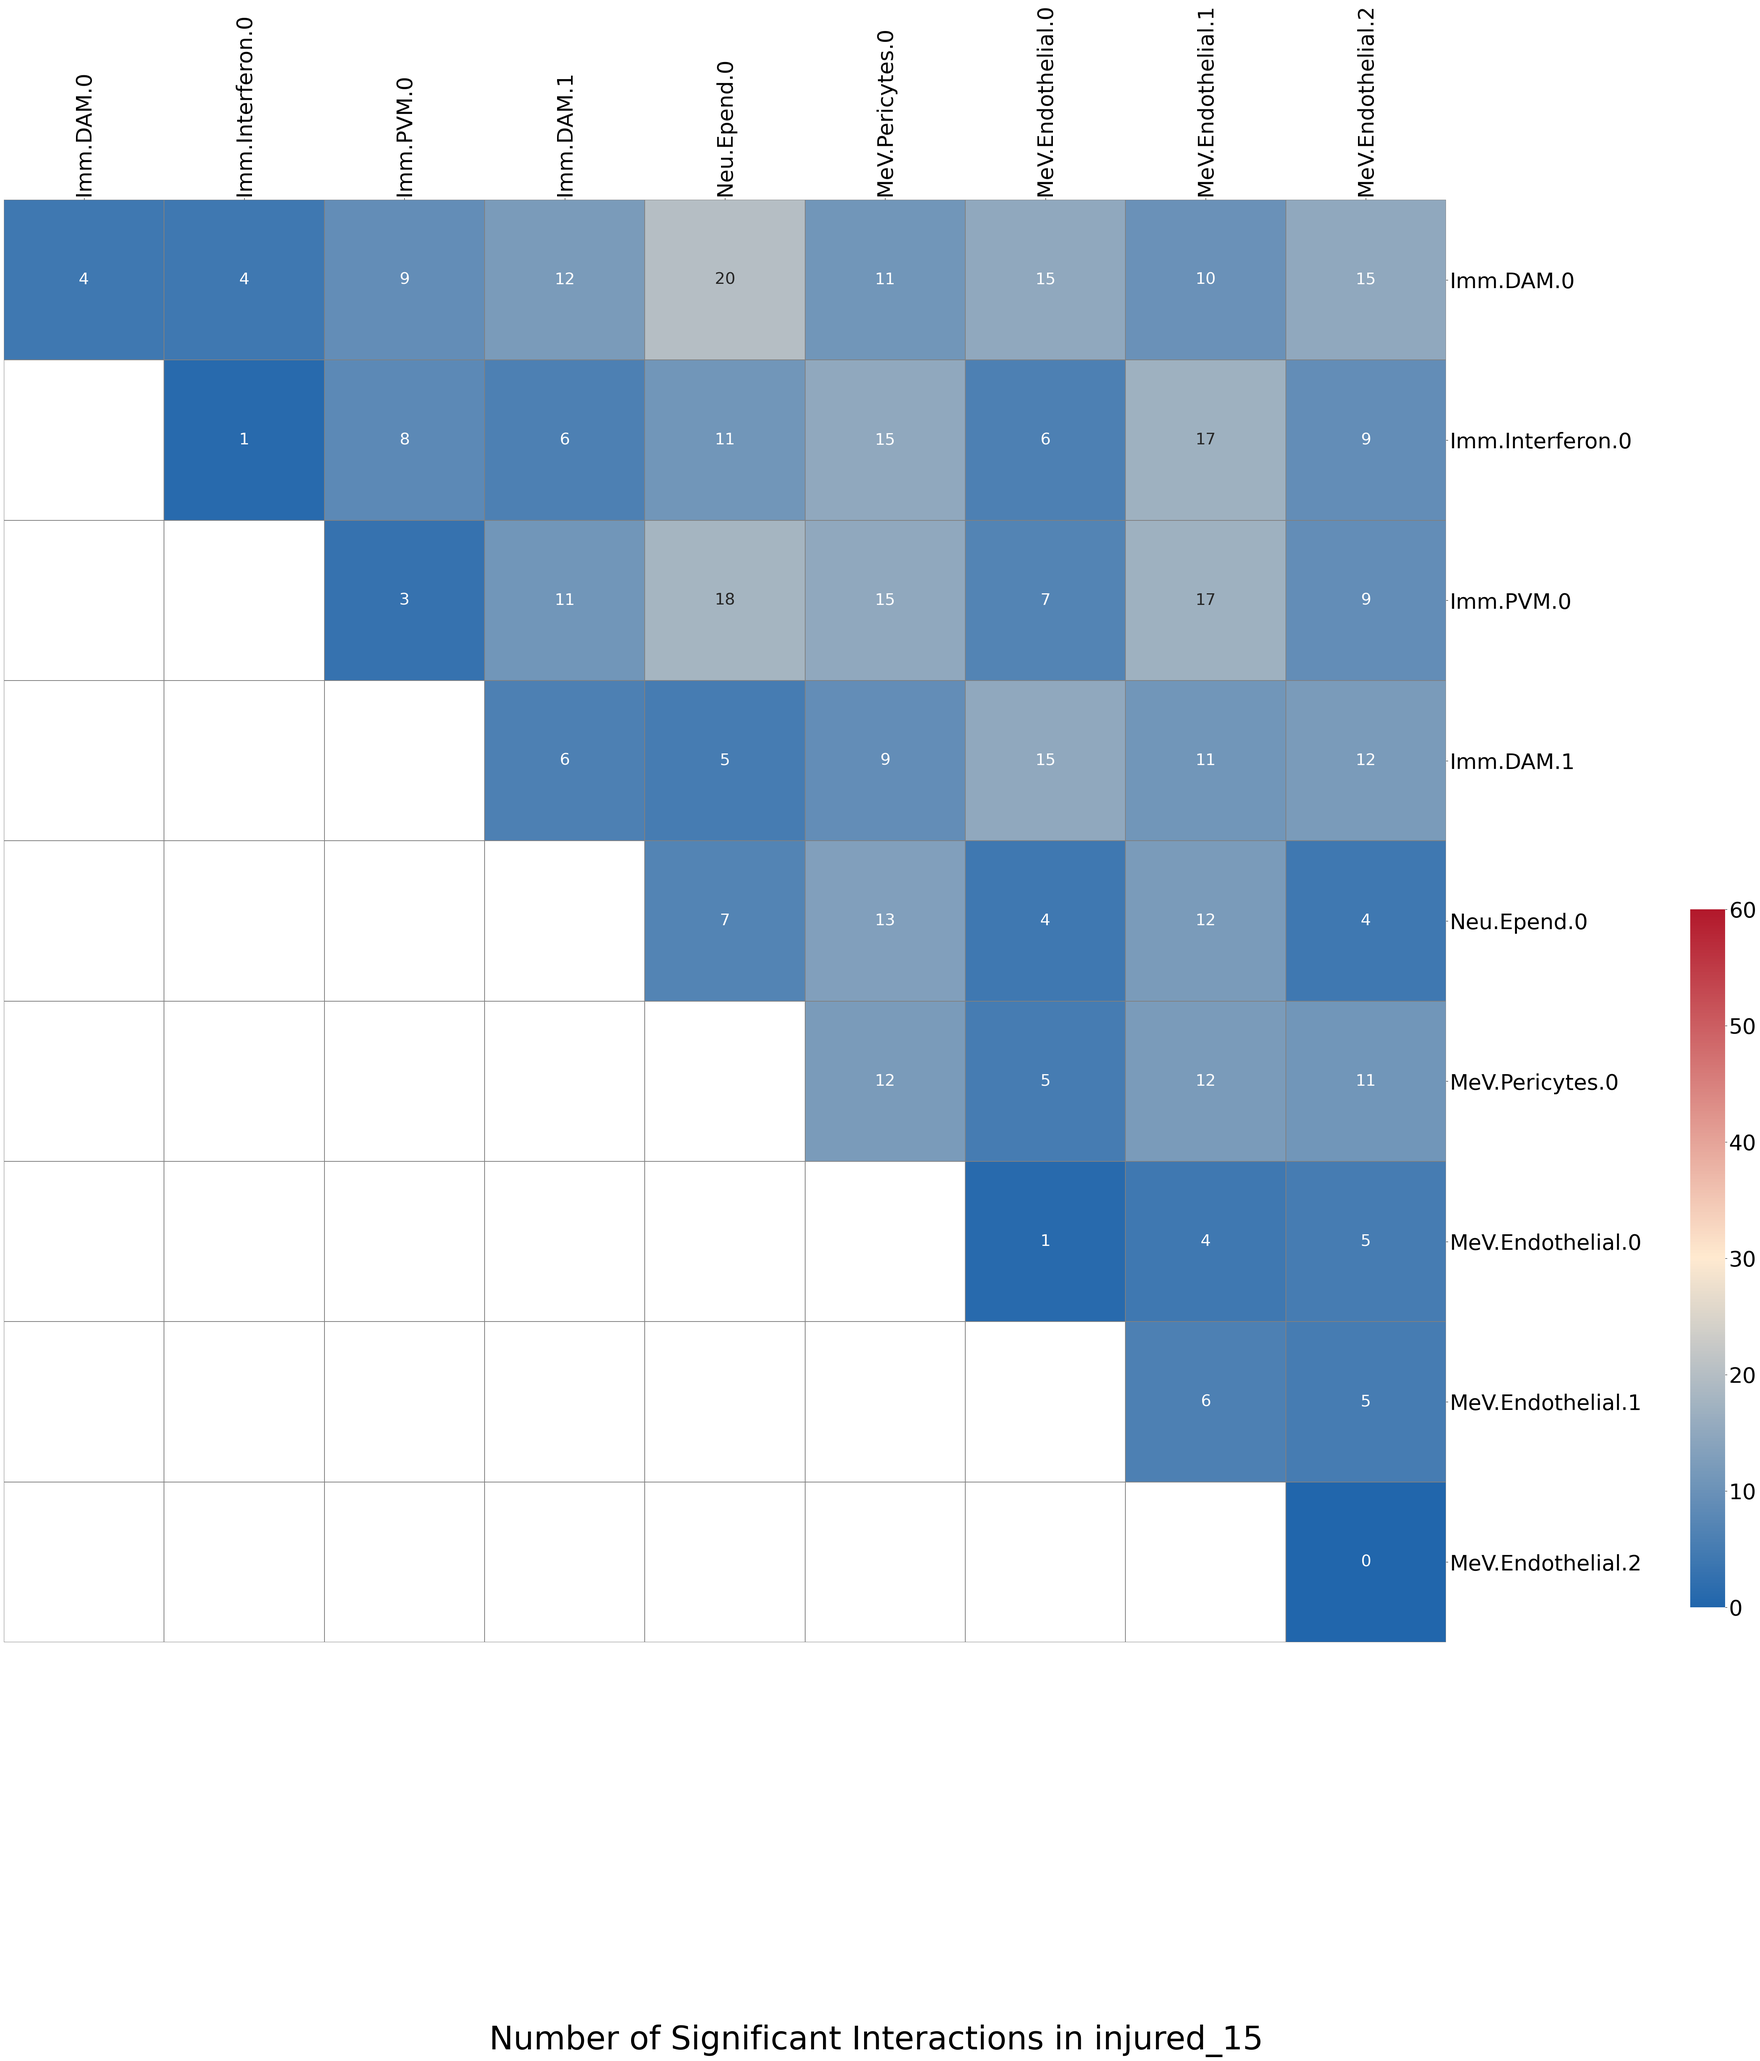
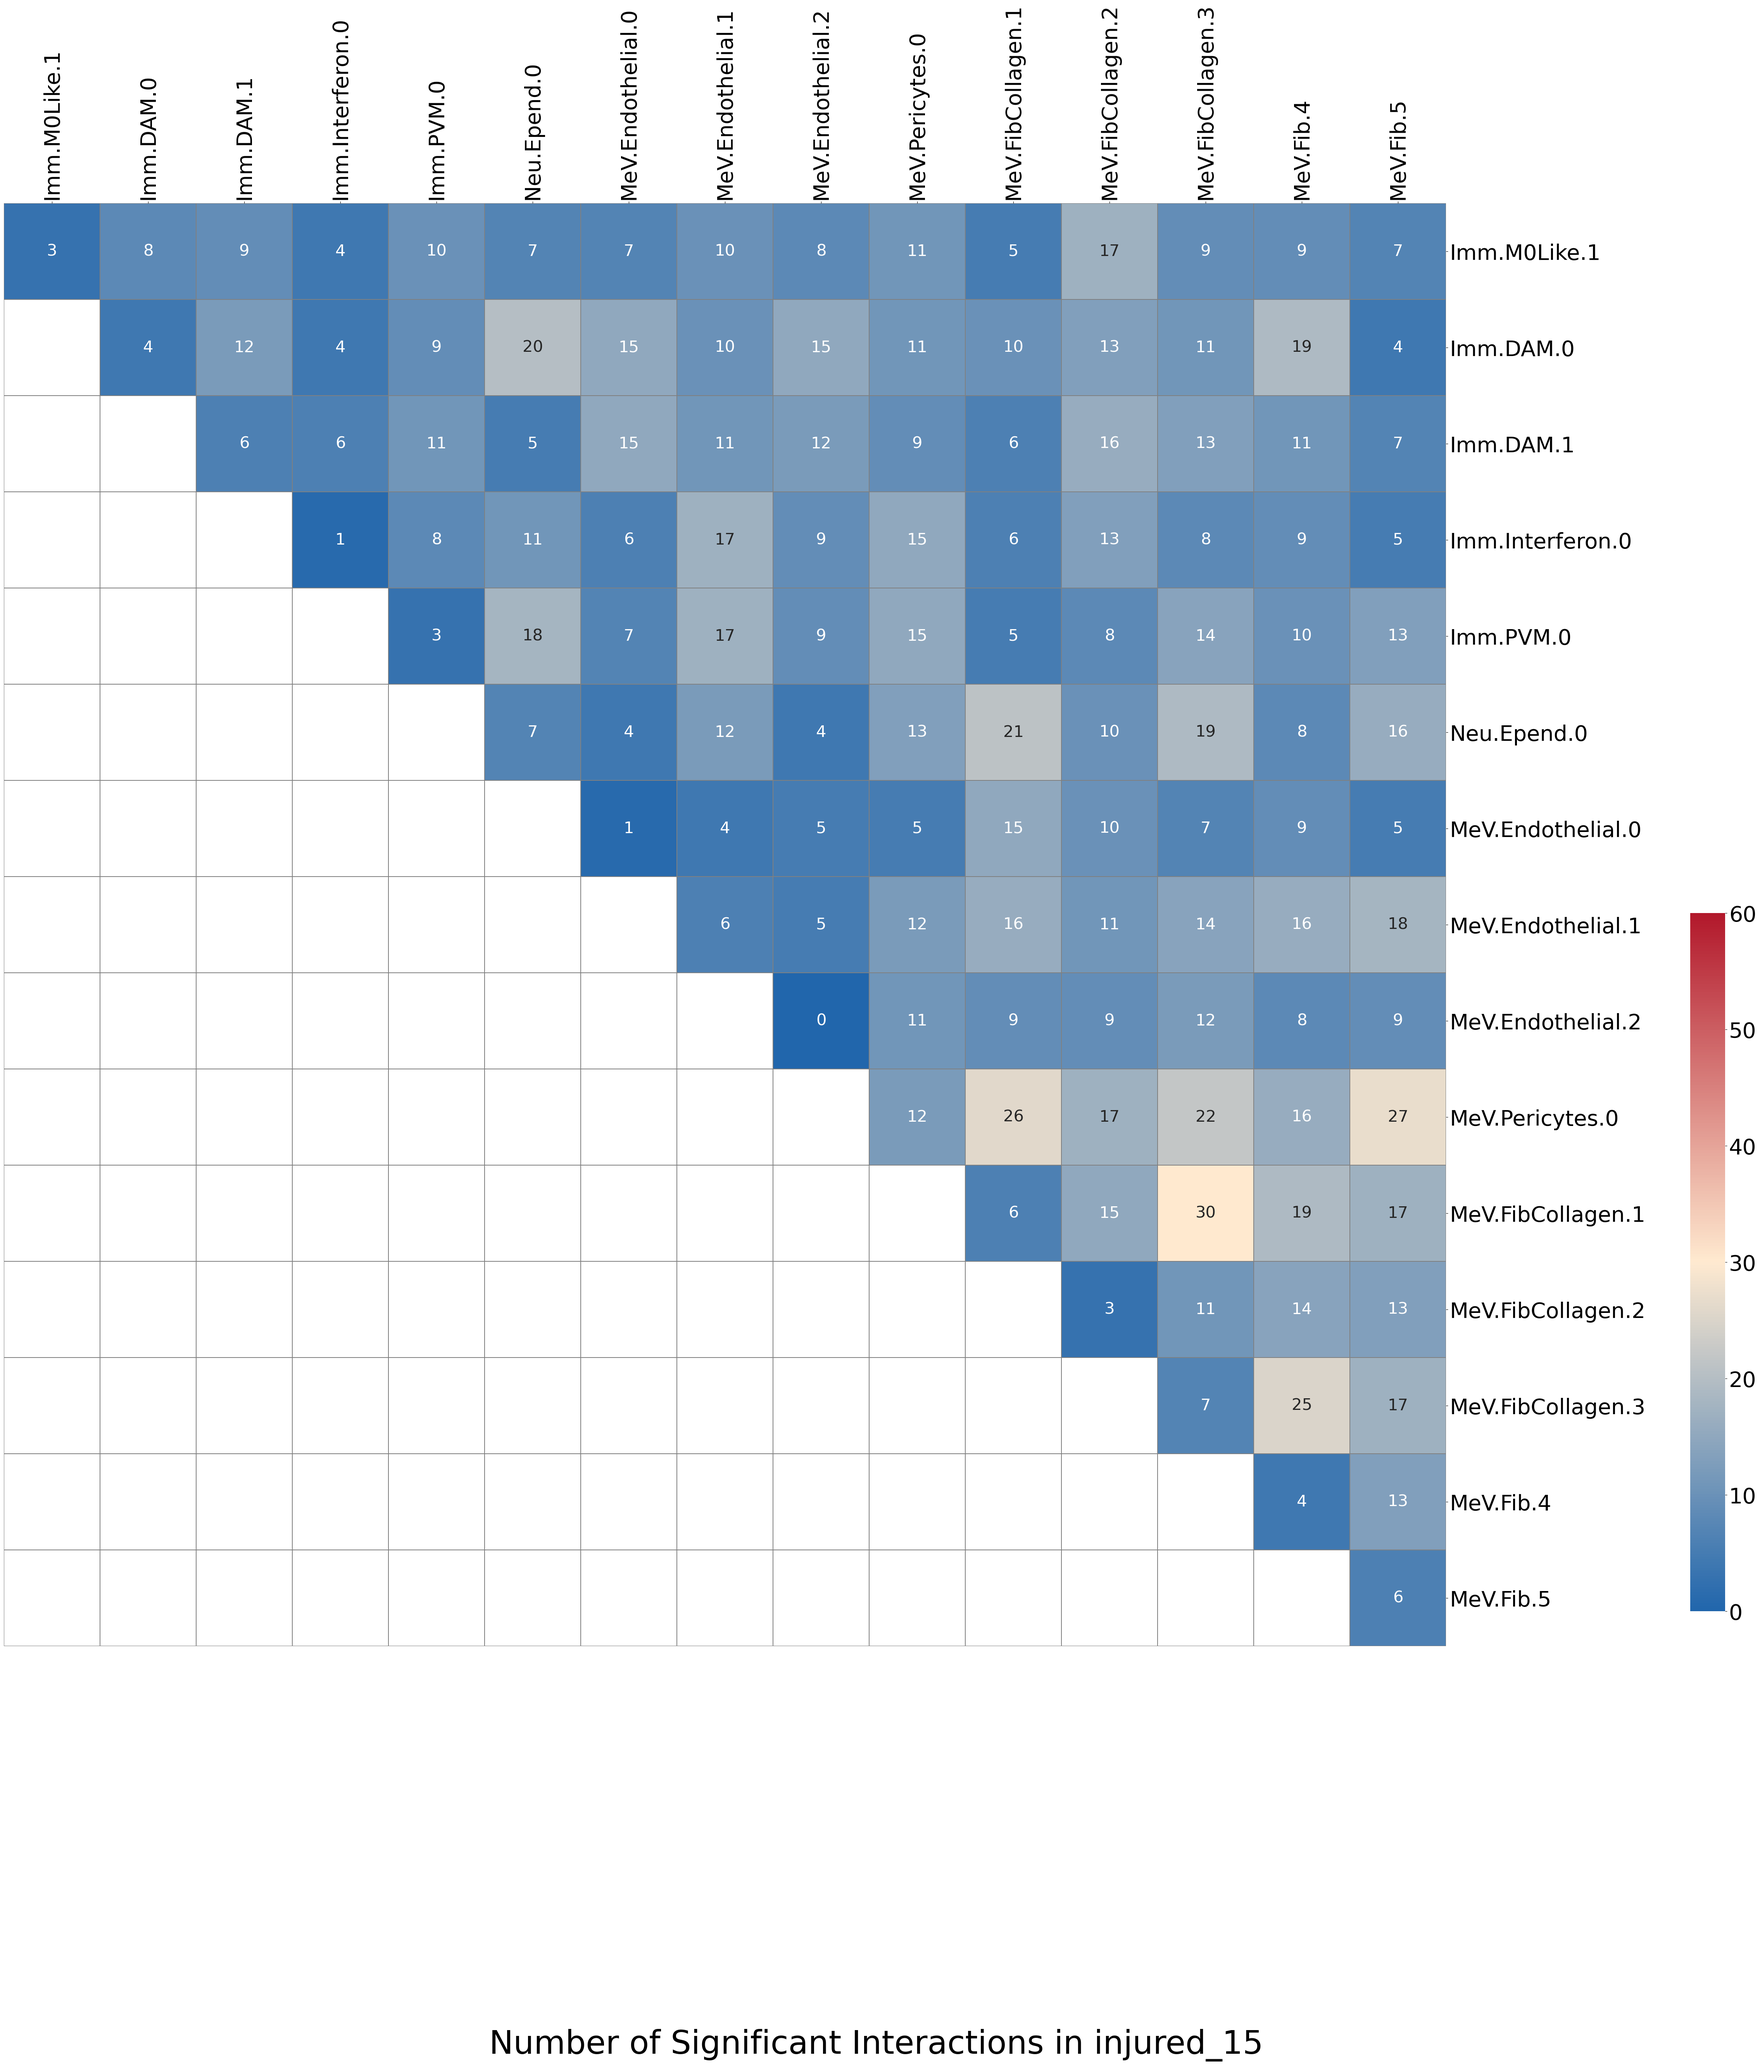
order of cluster in heatmaps

Changed region(s): [[0.0, 0.0312, 0.9317, 0.812], [0.8696, 0.1874, 0.9007, 0.2186]]

diff --git a/src/scripts/scripts_cellphonedb/sigs/common_interactions_sigs.py b/src/scripts/scripts_cellphonedb/sigs/common_interactions_sigs.py
@@ -161,9 +161,11 @@ def build_cluster_interaction_matrix(filtered_dict):
 def test_heatmap(category: str = None, remove_clusters: list = [], matrix: pd.DataFrame = None , vmin: int = None, vmax: int = None):
  
     custom_order = [
-        "Imm.M0Like.1", "Imm.DAM.0", "Imm.Interferon.0", "Imm.PVM.0", "Imm.DAM.1",
-        "Neu.Epend.0", "MeV.Pericytes.0", "MeV.Endothelial.0", "MeV.FibCollagen.1", "MeV.Fib.5", "MeV.Fib.4", 
-        "MeV.FibCollagen.2", "MeV.Endothelial.1", "MeV.Endothelial.2", "MeV.FibCollagen.3"
+        "Imm.M0Like.1", "Imm.DAM.0", "Imm.DAM.1", "Imm.Interferon.0", "Imm.PVM.0",
+        "Neu.Epend.0", 
+        "MeV.Endothelial.0","MeV.Endothelial.1", "MeV.Endothelial.2", "MeV.Pericytes.0", 
+        "MeV.FibCollagen.1", "MeV.FibCollagen.2", "MeV.FibCollagen.3", 
+        "MeV.Fib.4", "MeV.Fib.5"
     ]
 
     #relevant_clusters = ["Imm.DAM.0", "Imm.Interferon.0","Imm.PVM.0", "Imm.DAM.1", "Neu.Epend.0", "MeV.Pericytes.0", "MeV.Endothelial.0","MeV.Endothelial.1", "MeV.Endothelial.2"]
@@ -565,9 +567,9 @@ def export_top_interactions_per_cluster(edge_list_df, output_path):
         cluster_summary.append({
             'Cluster': cluster,
             'Top Sender(s)': ', '.join(top_incoming),
-            'Max Incoming Interactions': max_in_value,
+            'Max Outgoing Interactions': max_in_value,
             'Top Receiver(s)': ', '.join(top_outgoing),
-            'Max Outgoing Interactions': max_out_value
+            'Max Incoming Interactions': max_out_value
         })
 
     # Convert to DataFrame and export
@@ -766,8 +768,8 @@ if __name__ == "__main__":
     # print(matrix_60)
 
     remove_clusters = ["MeV.ImmuneDoublets.0", "MeV.FibUnknown.6", "MeV.LowQuality.0"]
-    # test_heatmap(category="injured_15", matrix = matrix_15 , remove_clusters=remove_clusters, vmin = 0, vmax = 60)
-    # test_heatmap(category="injured_60", matrix = matrix_60 , remove_clusters=remove_clusters, vmin = 0, vmax = 60)
+    test_heatmap(category="injured_15", matrix = matrix_15 , remove_clusters=remove_clusters, vmin = 0, vmax = 60)
+    test_heatmap(category="injured_60", matrix = matrix_60 , remove_clusters=remove_clusters, vmin = 0, vmax = 60)
 
     biological_groups = {
     "Imm_Resting": ["Imm.M0Like.0", "Imm.M0Like.1", "Imm.M0Like.2"], 
@@ -814,30 +816,30 @@ if __name__ == "__main__":
 
     edge_list_dir = "/home/makowlg/Documents/Immune-CCI/src/cellphonedb/excels/edge_list/"
 
-    export_top_interactions_per_cluster(edge_list_15, f"{edge_list_dir}top_cluster_interactions_15.xlsx")
+    # export_top_interactions_per_cluster(edge_list_15, f"{edge_list_dir}top_cluster_interactions_15.xlsx")
     # export_top_interactions_per_cluster(edge_list_60, f"{edge_list_dir}top_cluster_interactions_60.xlsx")
 
-    export_filtered_interactions_excel(
-        df_pvalues=injured_15_df2,
-        filtered_dict=filtered_15_dict,
-        output_path=f"{edge_list_dir}significant_interaction_ids_15.xlsx"
-    )
+    # export_filtered_interactions_excel(
+    #     df_pvalues=injured_15_df2,
+    #     filtered_dict=filtered_15_dict,
+    #     output_path=f"{edge_list_dir}significant_interaction_ids_15.xlsx"
+    # )
 
-    export_filtered_interactions_excel(
-        df_pvalues=injured_60_df2,
-        filtered_dict=filtered_60_dict,
-        output_path=f"{edge_list_dir}significant_interaction_ids_60.xlsx"
-    )
+    # export_filtered_interactions_excel(
+    #     df_pvalues=injured_60_df2,
+    #     filtered_dict=filtered_60_dict,
+    #     output_path=f"{edge_list_dir}significant_interaction_ids_60.xlsx"
+    # )
 
-    simplify_significant_interactions_precise(
-        top_clusters_path= f"{edge_list_dir}top_cluster_interactions_15.xlsx",
-        full_interactions_path= f"{edge_list_dir}significant_interaction_ids_15.xlsx",
-        output_path= f"{edge_list_dir}simplified_significant_interactions_15.xlsx"
-    )
+    # simplify_significant_interactions_precise(
+    #     top_clusters_path= f"{edge_list_dir}top_cluster_interactions_15.xlsx",
+    #     full_interactions_path= f"{edge_list_dir}significant_interaction_ids_15.xlsx",
+    #     output_path= f"{edge_list_dir}simplified_significant_interactions_15.xlsx"
+    # )
 
-    simplify_significant_interactions_precise(
-        top_clusters_path= f"{edge_list_dir}top_cluster_interactions_60.xlsx",
-        full_interactions_path= f"{edge_list_dir}significant_interaction_ids_60.xlsx",
-        output_path= f"{edge_list_dir}simplified_significant_interactions_60.xlsx"
-    )
+    # simplify_significant_interactions_precise(
+    #     top_clusters_path= f"{edge_list_dir}top_cluster_interactions_60.xlsx",
+    #     full_interactions_path= f"{edge_list_dir}significant_interaction_ids_60.xlsx",
+    #     output_path= f"{edge_list_dir}simplified_significant_interactions_60.xlsx"
+    # )
             
